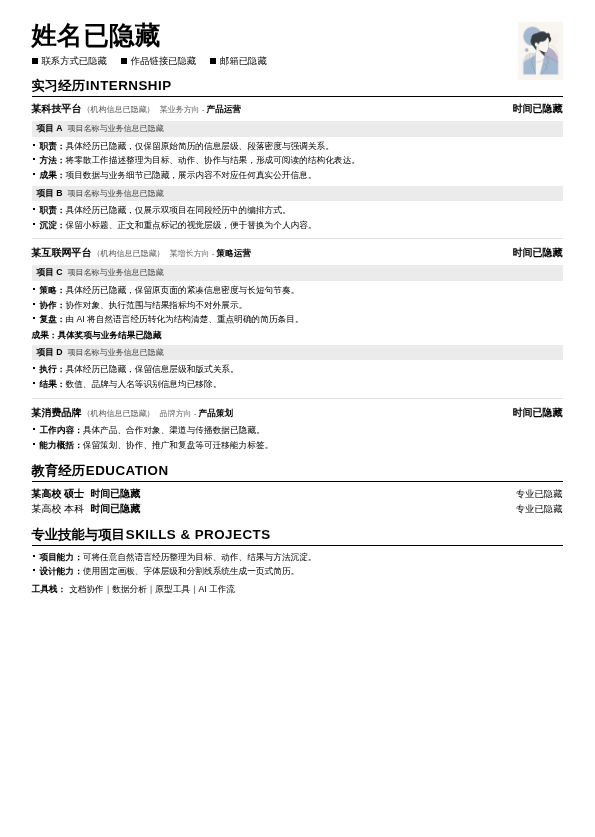
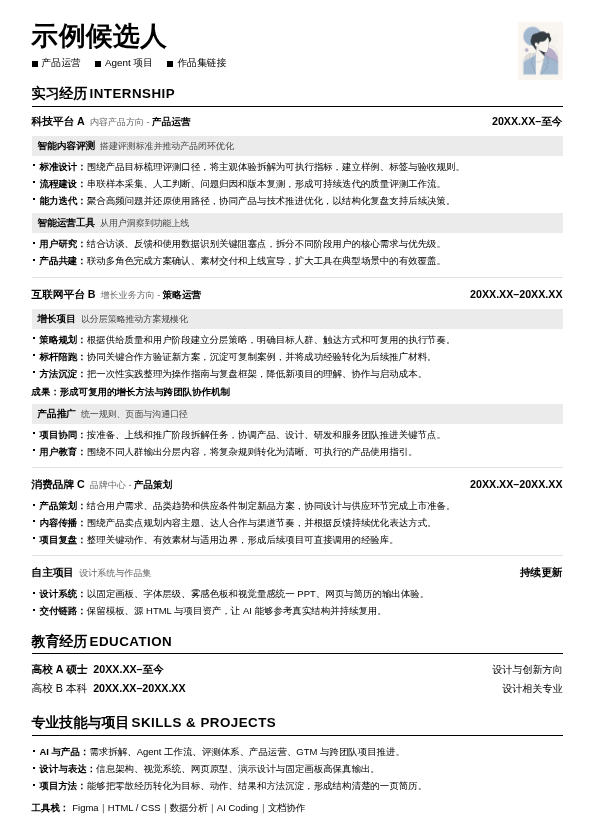
Improve resume preview and add asset gallery

diff --git a/design-minimalist-613/assets/template/projects/resume-minimal/example.html b/design-minimalist-613/assets/template/projects/resume-minimal/example.html
@@ -8,47 +8,51 @@
 :root{--bg:#fff;--ink:#000;--gray-soft:#ebebeb;--gray-line:#cfcfcf;--page-w:595px;--page-h:837px;--pad-x:32px;--pad-y:22px}
 *{margin:0;padding:0;box-sizing:border-box}
 html,body{width:100%;min-height:100%;background:#fff;font-family:"PingFang SC","AlibabaPuHuiTi 2.0","Noto Sans CJK SC","Microsoft YaHei",sans-serif;color:var(--ink);-webkit-font-smoothing:antialiased}
-body{display:flex;justify-content:center;align-items:flex-start;overflow:auto}.page{width:var(--page-w);height:var(--page-h);margin:0;background:var(--bg);padding:var(--pad-y) var(--pad-x);position:relative;overflow:hidden;font-size:7pt;line-height:1.35}
-.header{position:relative;padding-right:52px}.name{font-size:19pt;font-weight:600;letter-spacing:.5px;line-height:1.1;margin-bottom:3px}.contact{margin-top:5px;display:flex;flex-wrap:wrap;gap:14px;align-items:center}.contact .item{display:flex;align-items:center;gap:4px;font-size:7pt;font-weight:500}.contact .icon{width:6px;height:6px;background:var(--ink);display:inline-block;flex-shrink:0}.photo{position:absolute;right:0;top:0;width:45px;height:58px;background:var(--gray-soft);overflow:hidden}.photo img{width:100%;height:100%;object-fit:cover;object-position:50% 38%}
-.section-title{font-size:10pt;font-weight:600;margin-top:10px;margin-bottom:5px;padding-bottom:1px;border-bottom:1px solid var(--ink);display:flex;align-items:baseline}.section-title .en{font-size:10pt;font-weight:600;margin-left:1px;letter-spacing:.5px}.entry{margin-bottom:7px;padding-bottom:7px;border-bottom:1px solid #e0e0e0}.entry:last-of-type{border-bottom:none;margin-bottom:0;padding-bottom:0}.entry-head{display:flex;justify-content:space-between;align-items:baseline;gap:6px;font-size:7.5pt;font-weight:600;margin-bottom:5px}.company-wrap{display:flex;align-items:baseline;gap:3px;flex-wrap:wrap}.company{font-size:7.5pt;font-weight:600}.company .note{font-size:6pt;font-weight:400;color:#555;margin-left:1px}.dept-inline{font-size:6pt;font-weight:400;color:#666;margin-left:2px}.role{font-size:6.5pt;font-weight:600;color:var(--ink)}.date{font-size:7.5pt;font-weight:600;white-space:nowrap}
-.project-header{background:var(--gray-soft);padding:2px 5px;margin-top:4px;margin-bottom:3px;display:flex;align-items:baseline;gap:5px;flex-wrap:wrap}.pill-title{font-size:6.5pt;font-weight:600;white-space:nowrap}.pill-sub{font-size:6pt;font-weight:400;color:#444;line-height:1.3}.bullets{margin-top:2px;padding-left:0}.bullets li{list-style:none;position:relative;padding-left:8px;font-size:6.5pt;font-weight:400;margin-bottom:2px;line-height:1.45}.bullets li:last-child{margin-bottom:0}.bullets li::before{content:"";position:absolute;left:1px;top:4px;width:2px;height:2px;background:var(--ink)}.b-semi{font-weight:600}.u-line{text-decoration:underline;text-underline-offset:1px;text-decoration-thickness:.5px}.achievement{margin-top:3px;font-size:6.5pt;font-weight:600;line-height:1.4}
-.edu-row{display:flex;justify-content:space-between;align-items:baseline;margin-bottom:2px;gap:6px}.edu-school{font-size:7.5pt;font-weight:600;white-space:nowrap}.edu-school.lite{font-weight:300}.edu-date{font-size:7.5pt;font-weight:600;white-space:nowrap}.edu-major{font-size:7pt;font-weight:400;text-align:right;flex:1}.skills-line{margin-top:5px;font-size:6.5pt;font-weight:400;line-height:1.5}.skills-line .label{font-weight:600;margin-right:3px}
+body{display:flex;justify-content:center;align-items:flex-start;overflow:auto}.page{width:var(--page-w);height:var(--page-h);margin:0;background:var(--bg);padding:var(--pad-y) var(--pad-x);position:relative;overflow:hidden;font-size:7.5pt;line-height:1.48;display:flex;flex-direction:column;justify-content:space-between}.page>*{flex:none}
+.header{position:relative;padding-right:52px}.name{font-size:20pt;font-weight:600;letter-spacing:.5px;line-height:1.1;margin-bottom:3px}.contact{margin-top:5px;display:flex;flex-wrap:wrap;gap:14px;align-items:center}.contact .item{display:flex;align-items:center;gap:4px;font-size:7.4pt;font-weight:500}.contact .icon{width:6px;height:6px;background:var(--ink);display:inline-block;flex-shrink:0}.photo{position:absolute;right:0;top:0;width:45px;height:58px;background:var(--gray-soft);overflow:hidden}.photo img{width:100%;height:100%;object-fit:cover;object-position:50% 38%}
+.section-title{font-size:10.5pt;font-weight:600;margin-top:11px;margin-bottom:6px;padding-bottom:2px;border-bottom:1px solid var(--ink);display:flex;align-items:baseline}.section-title .en{font-size:10pt;font-weight:600;margin-left:2px;letter-spacing:.5px}.entry{margin-bottom:8px;padding-bottom:8px;border-bottom:1px solid #e0e0e0}.entry:last-of-type{border-bottom:none;margin-bottom:0;padding-bottom:0}.entry-head{display:flex;justify-content:space-between;align-items:baseline;gap:6px;font-size:8pt;font-weight:600;margin-bottom:6px}.company-wrap{display:flex;align-items:baseline;gap:3px;flex-wrap:wrap}.company{font-size:8pt;font-weight:600}.company .note{font-size:6.4pt;font-weight:400;color:#555;margin-left:1px}.dept-inline{font-size:6.8pt;font-weight:400;color:#666;margin-left:2px}.role{font-size:7.2pt;font-weight:600;color:var(--ink)}.date{font-size:8pt;font-weight:600;white-space:nowrap}
+.project-header{background:var(--gray-soft);padding:3px 6px;margin-top:5px;margin-bottom:4px;display:flex;align-items:baseline;gap:5px;flex-wrap:wrap}.pill-title{font-size:7.2pt;font-weight:600;white-space:nowrap}.pill-sub{font-size:6.7pt;font-weight:400;color:#444;line-height:1.35}.bullets{margin-top:2px;padding-left:0}.bullets li{list-style:none;position:relative;padding-left:8px;font-size:7.1pt;font-weight:400;margin-bottom:2.5px;line-height:1.52}.bullets li:last-child{margin-bottom:0}.bullets li::before{content:"";position:absolute;left:1px;top:4.5px;width:2px;height:2px;background:var(--ink)}.b-semi{font-weight:600}.u-line{text-decoration:underline;text-underline-offset:1px;text-decoration-thickness:.5px}.achievement{margin-top:4px;font-size:7.1pt;font-weight:600;line-height:1.45}
+.edu-row{display:flex;justify-content:space-between;align-items:baseline;margin-bottom:3px;gap:6px}.edu-school{font-size:8pt;font-weight:600;white-space:nowrap}.edu-school.lite{font-weight:300}.edu-date{font-size:8pt;font-weight:600;white-space:nowrap}.edu-major{font-size:7.5pt;font-weight:400;text-align:right;flex:1}.skills-line{margin-top:6px;font-size:7.1pt;font-weight:400;line-height:1.5}.skills-line .label{font-weight:600;margin-right:3px}
 @page{size:595px 837px;margin:0}@media print{html,body{width:595px;height:837px;overflow:hidden}.page{margin:0;box-shadow:none;-webkit-print-color-adjust:exact;print-color-adjust:exact}}
 </style>
 </head>
 <body>
 <main class="page" aria-label="匿名简历示例">
 <header class="header">
-  <div class="name">姓名已隐藏</div>
-  <div class="contact"><span class="item"><span class="icon"></span>联系方式已隐藏</span><span class="item"><span class="icon"></span>作品链接已隐藏</span><span class="item"><span class="icon"></span>邮箱已隐藏</span></div>
-  <div class="photo"><img src="assets/profile-avatar.png" alt="匿名头像"></div>
+  <div class="name">示例候选人</div>
+  <div class="contact"><span class="item"><span class="icon"></span>产品运营</span><span class="item"><span class="icon"></span>Agent 项目</span><span class="item"><span class="icon"></span>作品集链接</span></div>
+  <div class="photo"><img src="assets/profile-avatar.png" alt="示例头像"></div>
 </header>
 <h2 class="section-title">实习经历<span class="en">INTERNSHIP</span></h2>
 <section class="entry">
-  <div class="entry-head"><div class="company-wrap"><span class="company">某科技平台<span class="note">（机构信息已隐藏）</span></span><span class="dept-inline">某业务方向 - <span class="role">产品运营</span></span></div><span class="date">时间已隐藏</span></div>
-  <div class="project-header"><span class="pill-title">项目 A</span><span class="pill-sub">项目名称与业务信息已隐藏</span></div>
-  <ul class="bullets"><li><span class="b-semi">职责：</span>具体经历已隐藏，仅保留原始简历的信息层级、段落密度与强调关系。</li><li><span class="b-semi">方法：</span>将零散工作描述整理为目标、动作、协作与结果，形成可阅读的结构化表达。</li><li><span class="b-semi">成果：</span>项目数据与业务细节已隐藏，展示内容不对应任何真实公开信息。</li></ul>
-  <div class="project-header"><span class="pill-title">项目 B</span><span class="pill-sub">项目名称与业务信息已隐藏</span></div>
-  <ul class="bullets"><li><span class="b-semi">职责：</span>具体经历已隐藏，仅展示双项目在同段经历中的编排方式。</li><li><span class="b-semi">沉淀：</span>保留小标题、正文和重点标记的视觉层级，便于替换为个人内容。</li></ul>
+  <div class="entry-head"><div class="company-wrap"><span class="company">科技平台 A</span><span class="dept-inline">内容产品方向 - <span class="role">产品运营</span></span></div><span class="date">20XX.XX–至今</span></div>
+  <div class="project-header"><span class="pill-title">智能内容评测</span><span class="pill-sub">搭建评测标准并推动产品闭环优化</span></div>
+  <ul class="bullets"><li><span class="b-semi">标准设计：</span>围绕产品目标梳理评测口径，将主观体验拆解为可执行指标，建立样例、标签与验收规则。</li><li><span class="b-semi">流程建设：</span>串联样本采集、人工判断、问题归因和版本复测，形成可持续迭代的质量评测工作流。</li><li><span class="b-semi">能力迭代：</span>聚合高频问题并还原使用路径，协同产品与技术推进优化，以结构化复盘支持后续决策。</li></ul>
+  <div class="project-header"><span class="pill-title">智能运营工具</span><span class="pill-sub">从用户洞察到功能上线</span></div>
+  <ul class="bullets"><li><span class="b-semi">用户研究：</span>结合访谈、反馈和使用数据识别关键阻塞点，拆分不同阶段用户的核心需求与优先级。</li><li><span class="b-semi">产品共建：</span>联动多角色完成方案确认、素材交付和上线宣导，扩大工具在典型场景中的有效覆盖。</li></ul>
 </section>
 <section class="entry">
-  <div class="entry-head"><div class="company-wrap"><span class="company">某互联网平台<span class="note">（机构信息已隐藏）</span></span><span class="dept-inline">某增长方向 - <span class="role">策略运营</span></span></div><span class="date">时间已隐藏</span></div>
-  <div class="project-header"><span class="pill-title">项目 C</span><span class="pill-sub">项目名称与业务信息已隐藏</span></div>
-  <ul class="bullets"><li><span class="b-semi">策略：</span>具体经历已隐藏，保留原页面的紧凑信息密度与长短句节奏。</li><li><span class="b-semi">协作：</span>协作对象、执行范围与结果指标均不对外展示。</li><li><span class="b-semi">复盘：</span>由 AI 将自然语言经历转化为结构清楚、重点明确的简历条目。</li></ul>
-  <div class="achievement">成果：具体奖项与业务结果已隐藏</div>
-  <div class="project-header"><span class="pill-title">项目 D</span><span class="pill-sub">项目名称与业务信息已隐藏</span></div>
-  <ul class="bullets"><li><span class="b-semi">执行：</span>具体经历已隐藏，保留信息层级和版式关系。</li><li><span class="b-semi">结果：</span>数值、品牌与人名等识别信息均已移除。</li></ul>
+  <div class="entry-head"><div class="company-wrap"><span class="company">互联网平台 B</span><span class="dept-inline">增长业务方向 - <span class="role">策略运营</span></span></div><span class="date">20XX.XX–20XX.XX</span></div>
+  <div class="project-header"><span class="pill-title">增长项目</span><span class="pill-sub">以分层策略推动方案规模化</span></div>
+  <ul class="bullets"><li><span class="b-semi">策略规划：</span>根据供给质量和用户阶段建立分层策略，明确目标人群、触达方式和可复用的执行节奏。</li><li><span class="b-semi">标杆陪跑：</span>协同关键合作方验证新方案，沉淀可复制案例，并将成功经验转化为后续推广材料。</li><li><span class="b-semi">方法沉淀：</span>把一次性实践整理为操作指南与复盘框架，降低新项目的理解、协作与启动成本。</li></ul>
+  <div class="achievement">成果：形成可复用的增长方法与跨团队协作机制</div>
+  <div class="project-header"><span class="pill-title">产品推广</span><span class="pill-sub">统一规则、页面与沟通口径</span></div>
+  <ul class="bullets"><li><span class="b-semi">项目协同：</span>按准备、上线和推广阶段拆解任务，协调产品、设计、研发和服务团队推进关键节点。</li><li><span class="b-semi">用户教育：</span>围绕不同人群输出分层内容，将复杂规则转化为清晰、可执行的产品使用指引。</li></ul>
 </section>
 <section class="entry">
-  <div class="entry-head"><div class="company-wrap"><span class="company">某消费品牌<span class="note">（机构信息已隐藏）</span></span><span class="dept-inline">品牌方向 - <span class="role">产品策划</span></span></div><span class="date">时间已隐藏</span></div>
-  <ul class="bullets"><li><span class="b-semi">工作内容：</span>具体产品、合作对象、渠道与传播数据已隐藏。</li><li><span class="b-semi">能力概括：</span>保留策划、协作、推广和复盘等可迁移能力标签。</li></ul>
+  <div class="entry-head"><div class="company-wrap"><span class="company">消费品牌 C</span><span class="dept-inline">品牌中心 - <span class="role">产品策划</span></span></div><span class="date">20XX.XX–20XX.XX</span></div>
+  <ul class="bullets"><li><span class="b-semi">产品策划：</span>结合用户需求、品类趋势和供应条件制定新品方案，协同设计与供应环节完成上市准备。</li><li><span class="b-semi">内容传播：</span>围绕产品卖点规划内容主题、达人合作与渠道节奏，并根据反馈持续优化表达方式。</li><li><span class="b-semi">项目复盘：</span>整理关键动作、有效素材与适用边界，形成后续项目可直接调用的经验库。</li></ul>
+</section>
+<section class="entry">
+  <div class="entry-head"><div class="company-wrap"><span class="company">自主项目</span><span class="dept-inline">设计系统与作品集</span></div><span class="date">持续更新</span></div>
+  <ul class="bullets"><li><span class="b-semi">设计系统：</span>以固定画板、字体层级、雾感色板和视觉量感统一 PPT、网页与简历的输出体验。</li><li><span class="b-semi">交付链路：</span>保留模板、源 HTML 与项目资产，让 AI 能够参考真实结构并持续复用。</li></ul>
 </section>
 <h2 class="section-title">教育经历<span class="en">EDUCATION</span></h2>
-<div class="edu-row"><div class="edu-school">某高校 硕士</div><div class="edu-date">时间已隐藏</div><div class="edu-major">专业已隐藏</div></div>
-<div class="edu-row"><div class="edu-school lite">某高校 本科</div><div class="edu-date">时间已隐藏</div><div class="edu-major">专业已隐藏</div></div>
+<div class="edu-row"><div class="edu-school">高校 A 硕士</div><div class="edu-date">20XX.XX–至今</div><div class="edu-major">设计与创新方向</div></div>
+<div class="edu-row"><div class="edu-school lite">高校 B 本科</div><div class="edu-date">20XX.XX–20XX.XX</div><div class="edu-major">设计相关专业</div></div>
 <h2 class="section-title">专业技能与项目<span class="en">SKILLS &amp; PROJECTS</span></h2>
-<ul class="bullets"><li><span class="b-semi">项目能力：</span>可将任意自然语言经历整理为目标、动作、结果与方法沉淀。</li><li><span class="b-semi">设计能力：</span>使用固定画板、字体层级和分割线系统生成一页式简历。</li></ul>
-<div class="skills-line"><span class="label">工具栈：</span>文档协作｜数据分析｜原型工具｜AI 工作流</div>
+<ul class="bullets"><li><span class="b-semi">AI 与产品：</span>需求拆解、Agent 工作流、评测体系、产品运营、GTM 与跨团队项目推进。</li><li><span class="b-semi">设计与表达：</span>信息架构、视觉系统、网页原型、演示设计与固定画板高保真输出。</li><li><span class="b-semi">项目方法：</span>能够把零散经历转化为目标、动作、结果和方法沉淀，形成结构清楚的一页简历。</li></ul>
+<div class="skills-line"><span class="label">工具栈：</span>Figma｜HTML / CSS｜数据分析｜AI Coding｜文档协作</div>
 </main>
 </body>
 </html>

diff --git a/asset-preview/index.html b/asset-preview/index.html
@@ -1,0 +1,44 @@
+<!doctype html>
+<html lang="zh-CN">
+<head>
+<meta charset="utf-8">
+<meta name="viewport" content="width=device-width,initial-scale=1">
+<title>Design Minimalist 613｜资产预览</title>
+<style>
+:root{
+  --paper:#f8f6f7;--white:#fff;--ink:#30363d;--text:#59616a;--muted:#8a929b;--line:#e6e8ea;
+  --purple:#ddd2eb;--purple-deep:#9b88b3;--blue:#c8d9ef;--orange:#ebd2c2;
+  --font:"PingFang SC","Noto Sans SC","Source Han Sans SC",sans-serif;
+}
+*{box-sizing:border-box}html{scroll-behavior:smooth}body{margin:0;background:var(--paper);color:var(--ink);font-family:var(--font);-webkit-font-smoothing:antialiased}
+a{color:inherit}.topbar{position:sticky;top:0;z-index:20;display:flex;justify-content:space-between;align-items:center;padding:16px 5vw;background:rgba(248,246,247,.94);border-bottom:1px solid var(--line);backdrop-filter:blur(16px)}
+.brand{font-size:13px;font-weight:700;letter-spacing:.12em}.brand b{margin-left:8px;padding:6px;background:var(--purple)}.nav{display:flex;gap:24px;font-size:13px;color:var(--text)}.nav a{text-decoration:none}.nav a:hover{color:var(--purple-deep)}
+main{width:min(1280px,90vw);margin:0 auto;padding:72px 0 96px}.hero{display:grid;grid-template-columns:1.2fr .8fr;gap:48px;align-items:end;padding-bottom:48px;border-bottom:1px solid var(--line)}
+.kicker{font-size:13px;font-weight:700;letter-spacing:.14em;color:var(--purple-deep)}h1{max-width:760px;margin:16px 0 0;font-size:64px;font-weight:300;line-height:1.05;letter-spacing:-.04em}h1 em{font-style:normal;color:var(--purple-deep)}.intro{font-size:16px;line-height:1.8;color:var(--text)}
+.section{padding:64px 0;border-bottom:1px solid var(--line)}.section-head{display:flex;justify-content:space-between;align-items:end;margin-bottom:24px}.section-index{font-size:13px;font-weight:700;letter-spacing:.14em;color:var(--purple-deep)}h2{margin:8px 0 0;font-size:34px;font-weight:400;letter-spacing:-.02em}.source{font-size:13px;color:var(--text);text-decoration:none;border-bottom:1px solid var(--purple-deep);padding-bottom:3px}.source:hover{color:var(--purple-deep)}
+.gallery{display:grid;grid-template-columns:1fr;gap:24px}.frame{margin:0;background:var(--white);border:1px solid var(--line);padding:14px;overflow:hidden}.frame img{display:block;width:100%;height:auto}.caption{display:flex;justify-content:space-between;gap:24px;padding:14px 4px 2px;font-size:14px;color:var(--text)}.caption strong{color:var(--ink)}
+.resume-frame{padding:0;background:transparent;border:0}.resume-frame img{width:100%;height:auto}.philosophy img{max-width:960px;margin:0 auto}.footer{padding-top:32px;display:flex;justify-content:space-between;color:var(--muted);font-size:13px;line-height:1.6}
+@media(max-width:820px){.nav{display:none}main{width:min(94vw,720px);padding-top:44px}.hero{grid-template-columns:1fr;gap:20px}h1{font-size:44px}.section-head{align-items:start;gap:20px;flex-direction:column}.frame{padding:6px}.caption{flex-direction:column;gap:4px}}
+</style>
+</head>
+<body>
+<header class="topbar"><div class="brand">DESIGN MINIMALIST <b>613</b></div><nav class="nav"><a href="#ppt">PPT</a><a href="#web">网页</a><a href="#resume">简历</a><a href="#system">设计哲学</a></nav></header>
+<main>
+  <section class="hero"><div><div class="kicker">ASSET GALLERY · DESIGN SYSTEM</div><h1>一次查看全部<em>设计资产</em></h1></div><p class="intro">在同一页面浏览 PPT、个人网页、简历生成方式与完整设计哲学，不必逐个打开源代码，也能快速理解这套 Skill 的视觉效果和使用方式。</p></section>
+
+  <section class="section" id="ppt"><div class="section-head"><div><div class="section-index">01 / PRESENTATION</div><h2>研究型演示</h2></div><a class="source" href="https://github.com/yican-hub/Design_minimalist_613/blob/main/design-minimalist-613/assets/template/projects/ppt-research/example.html">查看源 HTML ↗</a></div><div class="gallery">
+    <figure class="frame"><img src="assets/ppt-05-limitations.png" alt="研究不足页面"><figcaption class="caption"><strong>05 研究不足</strong><span>四项问题卡片与结论栏</span></figcaption></figure>
+    <figure class="frame"><img src="assets/ppt-02-theory.png" alt="理论基础页面"><figcaption class="caption"><strong>02 理论基础</strong><span>由通用规则到项目交付</span></figcaption></figure>
+    <figure class="frame"><img src="assets/ppt-04-business-canvas.png" alt="复杂画布页面"><figcaption class="caption"><strong>04 复杂画布</strong><span>多模块、多层级、多关系编排</span></figcaption></figure>
+  </div></section>
+
+  <section class="section" id="web"><div class="section-head"><div><div class="section-index">02 / PERSONAL WEB</div><h2>个人网页首图</h2></div><a class="source" href="https://github.com/yican-hub/Design_minimalist_613/blob/main/design-minimalist-613/assets/template/projects/personal-web/example.html">查看源 HTML ↗</a></div><figure class="frame"><img src="assets/web-personal-anonymized.png" alt="个人网页首图"><figcaption class="caption"><strong>人物视觉 × 超大标题</strong><span>固定画板 1440 × 920</span></figcaption></figure></section>
+
+  <section class="section" id="resume"><div class="section-head"><div><div class="section-index">03 / RESUME</div><h2>从经历文档到一页简历</h2></div><a class="source" href="https://github.com/yican-hub/Design_minimalist_613/blob/main/design-minimalist-613/assets/template/projects/resume-minimal/how-to-use.html">查看源 HTML ↗</a></div><figure class="resume-frame"><img src="assets/resume-how-to-use.png" alt="Markdown 经历生成结构化简历"><figcaption class="caption"><strong>随便写经历，AI 自动整理</strong><span>左侧 Markdown 输入，右侧 A4 简历结果</span></figcaption></figure></section>
+
+  <section class="section" id="system"><div class="section-head"><div><div class="section-index">04 / DESIGN SYSTEM</div><h2>完整设计哲学</h2></div><a class="source" href="https://github.com/yican-hub/Design_minimalist_613/blob/main/design-minimalist-613/assets/template/design-spec/index.html">查看源 HTML ↗</a></div><figure class="frame philosophy"><img src="assets/design-philosophy-full.png" alt="Design Minimalist 613 完整设计哲学"></figure></section>
+
+  <footer class="footer"><span>Design Minimalist 613</span><span>固定画板 · 4px 网格 · 字体 Token · 雾感色板 · Project Loop</span></footer>
+</main>
+</body>
+</html>

diff --git a/design-minimalist-613/assets/template/projects/resume-minimal/how-to-use.html b/design-minimalist-613/assets/template/projects/resume-minimal/how-to-use.html
@@ -5,9 +5,9 @@
 <meta name="viewport" content="width=device-width,initial-scale=1">
 <title>怎么使用｜从经历文档到一页式简历</title>
 <style>
-:root{--w:1440px;--h:810px;--paper:#f8f6f7;--white:#fff;--ink:#30363d;--text:#59616a;--muted:#8a929b;--border:#e6e8ea;--purple:#ddd2eb;--purple-deep:#9b88b3;--font:"PingFang SC","Noto Sans SC","Source Han Sans SC",sans-serif}
-*{box-sizing:border-box;margin:0;padding:0}html,body{width:100%;min-height:100%;background:var(--paper);font-family:var(--font);color:var(--ink)}body{display:flex;justify-content:center;align-items:flex-start}.page{width:var(--w);height:var(--h);padding:48px 64px;background:var(--paper);overflow:hidden}.header{height:84px;display:flex;align-items:flex-end;justify-content:space-between;border-bottom:1px solid var(--border);padding-bottom:20px}.kicker{font-size:13px;font-weight:600;letter-spacing:.12em;color:var(--purple-deep);margin-bottom:8px}.title{font-size:34px;font-weight:300;line-height:1.1;letter-spacing:-.02em}.hint{max-width:420px;font-size:15px;line-height:1.6;color:var(--text);text-align:right}.workspace{height:622px;padding-top:28px;display:grid;grid-template-columns:510px 110px 1fr;align-items:stretch}.source,.result{background:var(--white);border:1px solid var(--border);overflow:hidden}.source{display:flex;flex-direction:column}.panel-head{height:50px;padding:0 18px;display:flex;align-items:center;justify-content:space-between;border-bottom:1px solid var(--border);font-size:13px;font-weight:600;letter-spacing:.06em}.file-pill{padding:5px 8px;background:var(--purple);font-size:11px}.code{flex:1;padding:22px 24px;font:400 14px/1.65 ui-monospace,SFMono-Regular,Menlo,Consolas,monospace;color:var(--text);white-space:pre-wrap}.code .h1{font-size:20px;font-weight:700;color:var(--ink)}.code .h2{font-size:17px;font-weight:700;color:var(--ink)}.code .h3{font-size:15px;font-weight:700;color:var(--purple-deep)}.code .bullet{color:var(--text)}.note{margin:0 24px 22px;padding:13px 15px;border-left:4px solid var(--purple-deep);background:#eee8f5;font-size:14px;line-height:1.55;color:var(--text)}.flow{display:flex;flex-direction:column;align-items:center;justify-content:center;gap:12px;color:var(--muted)}.flow .arrow{font-size:42px;font-weight:200;color:var(--purple-deep)}.flow b{font-size:12px;letter-spacing:.08em;color:var(--ink)}.result{display:flex;flex-direction:column;align-items:center}.result .panel-head{width:100%}.resume-wrap{flex:1;width:100%;display:flex;align-items:center;justify-content:center;padding:18px;background:#fff}.resume-wrap img{height:522px;width:auto;display:block;object-fit:contain;box-shadow:0 0 0 1px var(--border)}
-@page{size:1440px 810px;margin:0}@media print{html,body{width:1440px;height:810px}.page{margin:0}}
+:root{--w:1440px;--h:1160px;--paper:#f8f6f7;--white:#fff;--ink:#30363d;--text:#59616a;--muted:#8a929b;--border:#e6e8ea;--purple:#ddd2eb;--purple-deep:#9b88b3;--font:"PingFang SC","Noto Sans SC","Source Han Sans SC",sans-serif}
+*{box-sizing:border-box;margin:0;padding:0}html,body{width:100%;min-height:100%;background:var(--paper);font-family:var(--font);color:var(--ink)}body{display:flex;justify-content:center;align-items:flex-start}.page{width:var(--w);height:var(--h);padding:48px 64px;background:var(--paper);overflow:hidden}.header{height:84px;display:flex;align-items:flex-end;justify-content:space-between;border-bottom:1px solid var(--border);padding-bottom:20px}.kicker{font-size:13px;font-weight:600;letter-spacing:.12em;color:var(--purple-deep);margin-bottom:8px}.title{font-size:34px;font-weight:300;line-height:1.1;letter-spacing:-.02em}.hint{max-width:420px;font-size:15px;line-height:1.6;color:var(--text);text-align:right}.workspace{height:974px;padding-top:28px;display:grid;grid-template-columns:510px 110px 1fr;align-items:stretch}.source,.result{background:var(--white);border:1px solid var(--border);overflow:hidden}.source{display:flex;flex-direction:column}.panel-head{height:50px;padding:0 18px;display:flex;align-items:center;justify-content:space-between;border-bottom:1px solid var(--border);font-size:13px;font-weight:600;letter-spacing:.06em}.file-pill{padding:5px 8px;background:var(--purple);font-size:11px}.code{flex:1;padding:32px 28px;font:400 16px/1.75 ui-monospace,SFMono-Regular,Menlo,Consolas,monospace;color:var(--text);white-space:pre-wrap}.code .h1{font-size:23px;font-weight:700;color:var(--ink)}.code .h2{font-size:19px;font-weight:700;color:var(--ink)}.code .h3{font-size:17px;font-weight:700;color:var(--purple-deep)}.code .bullet{color:var(--text)}.note{margin:0 28px 28px;padding:16px 18px;border-left:4px solid var(--purple-deep);background:#eee8f5;font-size:15px;line-height:1.6;color:var(--text)}.flow{display:flex;flex-direction:column;align-items:center;justify-content:center;gap:12px;color:var(--muted)}.flow .arrow{font-size:42px;font-weight:200;color:var(--purple-deep)}.flow b{font-size:12px;letter-spacing:.08em;color:var(--ink)}.result{display:flex;flex-direction:column;align-items:center}.result .panel-head{width:100%}.resume-wrap{flex:1;width:100%;display:flex;align-items:center;justify-content:center;padding:18px;background:#fff}.resume-wrap img{height:900px;width:auto;display:block;object-fit:contain;box-shadow:0 0 0 1px var(--border)}
+@page{size:1440px 1160px;margin:0}@media print{html,body{width:1440px;height:1160px}.page{margin:0}}
 </style>
 </head>
 <body><main class="page">
@@ -30,6 +30,6 @@
 <span class="h2">## 教育经历</span>
 <span class="bullet">- 学校、专业、时间</span></div><div class="note">只需保证事实准确；项目命名、层级拆分、重点提炼和版式适配交给 AI。</div></article>
   <div class="flow"><b>AI STRUCTURE</b><div class="arrow">→</div><span>提炼 · 归类 · 排版</span></div>
-  <article class="result"><div class="panel-head"><span>结构化简历</span><span class="file-pill">A4 · 595 × 837</span></div><div class="resume-wrap"><img src="assets/resume-preview.png" alt="匿名一页式简历"></div></article>
+  <article class="result"><div class="panel-head"><span>结构化简历</span><span class="file-pill">A4 · 595 × 837</span></div><div class="resume-wrap"><img src="assets/resume-preview.png" alt="一页式简历"></div></article>
 </section>
 </main></body></html>
